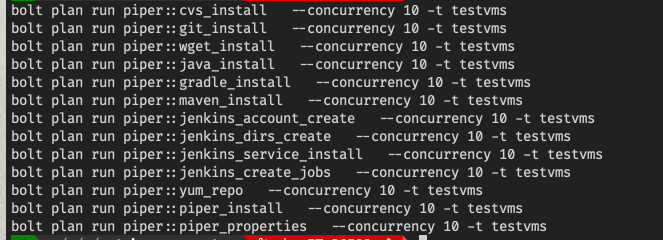
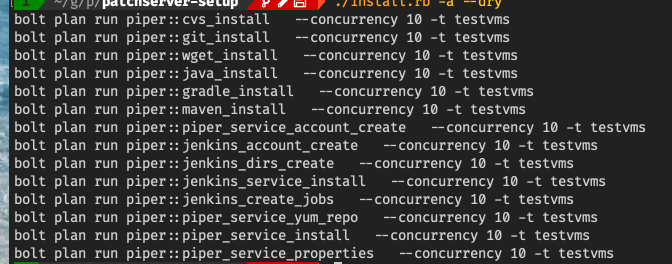
Further automated Piper Manual Post Install steps

diff --git a/install.rb b/install.rb
@@ -28,13 +28,15 @@ plans_installation_order << OpenStruct.new('install_order' => 1, 'name' => 'pipe
 plans_installation_order << OpenStruct.new('install_order' => 1, 'name' => 'piper::java_install')
 plans_installation_order << OpenStruct.new('install_order' => 2, 'name' => 'piper::gradle_install')
 plans_installation_order << OpenStruct.new('install_order' => 2, 'name' => 'piper::maven_install')
-plans_installation_order << OpenStruct.new('install_order' => 10, 'name' => 'piper::jenkins_account_create')
-plans_installation_order << OpenStruct.new('install_order' => 11, 'name' => 'piper::jenkins_dirs_create')
-plans_installation_order << OpenStruct.new('install_order' => 12, 'name' => 'piper::jenkins_service_install')
-plans_installation_order << OpenStruct.new('install_order' => 20, 'name' => 'piper::jenkins_create_jobs')
-plans_installation_order << OpenStruct.new('install_order' => 30, 'name' => 'piper::yum_repo')
-plans_installation_order << OpenStruct.new('install_order' => 31, 'name' => 'piper::piper_service_install')
-plans_installation_order << OpenStruct.new('install_order' => 32, 'name' => 'piper::piper_service_properties')
+## Needs to run before jenkins account creations
+plans_installation_order << OpenStruct.new('install_order' => 10, 'name' => 'piper::piper_service_account_create')
+plans_installation_order << OpenStruct.new('install_order' => 11, 'name' => 'piper::jenkins_account_create')
+plans_installation_order << OpenStruct.new('install_order' => 12, 'name' => 'piper::jenkins_dirs_create')
+plans_installation_order << OpenStruct.new('install_order' => 20, 'name' => 'piper::jenkins_service_install')
+plans_installation_order << OpenStruct.new('install_order' => 30, 'name' => 'piper::jenkins_create_jobs')
+plans_installation_order << OpenStruct.new('install_order' => 40, 'name' => 'piper::piper_service_yum_repo')
+plans_installation_order << OpenStruct.new('install_order' => 42, 'name' => 'piper::piper_service_install')
+plans_installation_order << OpenStruct.new('install_order' => 43, 'name' => 'piper::piper_service_properties')
 
 plans_available = []
 plans_to_execute = []
@@ -104,6 +106,7 @@ unless plans_to_execute.empty?
     plans_to_execute.delete('piper::jenkins_account_create')
     plans_to_execute.delete('piper::jenkins_dirs_create')
     plans_to_execute.delete('piper::piper_service_install')
+    plans_to_execute.delete('piper::piper_service_account_create')
     plans_to_execute.delete('piper::piper_service_properties')
     plans_to_execute.delete('piper::jenkins_create_jobs')
   end

diff --git a/README.md b/README.md
@@ -141,24 +141,15 @@ You need to follow the following steps to make your installation usable
 In order for jenkins jobs to be able to co from cvs-t.apgsga.ch you need
 to copy the public ssh key to the user with which the jenkins jobs are
 to run:
-
-4. `ssh-copy-id <user>@cvs-t.apgsga.ch #copy the key using your id`
+1. `su - jenkins`
+2. `ssh-copy-id <user>@cvs-t.apgsga.ch #copy the key using your id`
 
 ### Configure Piper
 
-TODO (che, 19.11) : needs to be revised and automated with bolt plans
-
 After Piper has been installed, we have to configure the following:
-
-1. logon as apg-patch-service-server (su apg-patch-service-server)
-2. run "ssh localhost -p 53801 (you might get an error, doesn't matter,
-   important is to see : Permanently added 'localhost:53801' (RSA) to
-   the list of known hosts)
-3. run "ssh-keygen", accept all default
-4. run "ssh-copy-id apg-patch-service-server@localhost"
-5. run "cat ~/.ssh/id_rsa.pub" -> copy the output within Jenkins "SSH
-   Public keys" of the user configured for jenkins.ssh.user property
-   within /etc/opt/apg-patch-service-server/application.properties.
+# TODO (che, 19.11) needs to be verified
+1. login as sudo user of target
+2. ssh-copy-id apg-patch-service-server@localhost
 
 
 ## Open Points / Todos
@@ -167,11 +158,11 @@ After Piper has been installed, we have to configure the following:
       etc)
 - [ ] Move maven_profile inventory.xml property to target group specfic
 - [ ] Production Target Group properties in inventory.xml
+- [ ] Very plans and properties in terms of Production target
 - [ ] Review (and Revise) Jenkins User(s) configuration and setup
 - [ ] Review (and Revise) Piper User configuration and setup
 - [ ] Move Testscripts in patchserver-testscripts back to
       patchserver-setup repository
-- [ ] Automate manual steps for Piper Setup => ssh key management
 - [ ] Move Target, User , Password from inventory.yaml back to commandline
 - [ ] Piper Service default Install, currently the rpm produces a
       installation, which does not run, but assumes that the *.intitial
@@ -188,6 +179,13 @@ After Piper has been installed, we have to configure the following:
 - [ ] Which data should be managed with Puppet Hiera
 - [ ] More detail described of what is done in the individual plans,
       specially in the non - trivial ones
+- [ ] Should the secrets resp the default passwords for the accounts,
+      which are created , modified handled in a better way?
+- [ ] Gradle Home for Jenkins: pulled directly from git or copied and
+      git stripped
+- [ ] Specific ssh local ssh user for Piper ssh commands? Currently the
+      sudo of the test vm is used
+
 
 
 
